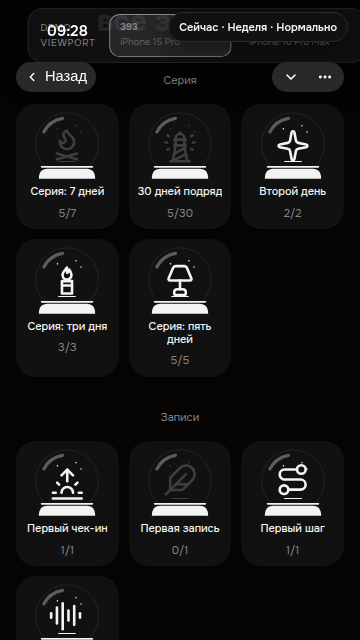
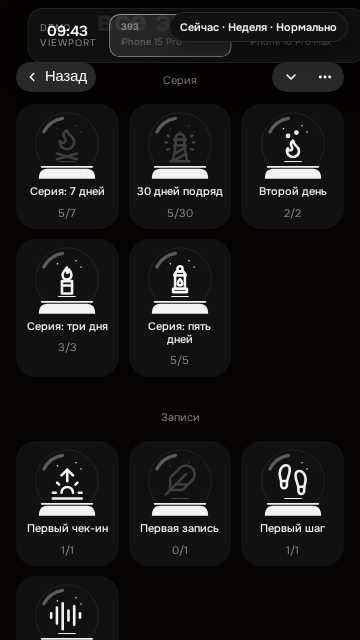
Обновить иконки значков в списке достижений

diff --git a/src/components/BadgeIcons.jsx b/src/components/BadgeIcons.jsx
@@ -1,15 +1,14 @@
 import {
   AudioLines,
+  Coffee,
   Feather,
   Flame,
   FlameKindling,
-  Lamp,
+  Footprints,
   Lighthouse,
-  Puzzle,
-  Route,
-  Sparkle,
   Sunrise,
   Tent,
+  TreePine,
 } from 'lucide-react'
 
 const ICON_STROKE = 1.8
@@ -33,6 +32,61 @@ function CandleIcon({ x, y, width, height, className }) {
     >
       <path d="M12 2.8c-1.2 1.7-3.1 3.2-3.1 5.2a3.1 3.1 0 0 0 6.2 0c0-1.2-.6-2.4-1.5-3.7-.2 1.1-.7 1.8-1.4 2.2-.1-1.4-.2-2.3-.2-3.7Z" />
       <path d="M8.5 12.2h7v8.6h-7zM8.5 15.3h7" />
+    </svg>
+  )
+}
+
+/* «Второй день» — искра: меньшая ступень огня. Тот же силуэт пламени, что у
+   «Пламени» (Flame, default), уменьшенный до 60% (ширина 8.4 против 14), и две
+   искры над ним. */
+function SparkIcon({ x, y, width, height, className }) {
+  return (
+    <svg
+      x={x}
+      y={y}
+      width={width}
+      height={height}
+      viewBox="0 0 24 24"
+      className={className}
+      fill="none"
+      stroke="currentColor"
+      strokeWidth={ICON_STROKE}
+      strokeLinecap="round"
+      strokeLinejoin="round"
+      aria-hidden="true"
+      focusable="false"
+    >
+      <path d="M9.9 16.7A1.5 1.5 0 0 0 11.4 15.2c0-.83-.3-1.2-.6-1.8-.64-1.29-.13-2.43 1.2-3.6.3 1.5 1.2 2.94 2.4 3.9 1.2.96 1.8 2.1 1.8 3.3a4.2 4.2 0 1 1-8.4 0c0-.69.26-1.38.6-1.8a1.5 1.5 0 0 0 1.5 1.5Z" />
+      <circle cx="8.6" cy="6.6" r="0.75" />
+      <circle cx="14.4" cy="4.2" r="0.75" />
+    </svg>
+  )
+}
+
+/* «Серия: пять дней» — фонарь путника: кольцо-ручка, крышка, стеклянный
+   корпус с огоньком внутри и основание. */
+function LanternIcon({ x, y, width, height, className }) {
+  return (
+    <svg
+      x={x}
+      y={y}
+      width={width}
+      height={height}
+      viewBox="0 0 24 24"
+      className={className}
+      fill="none"
+      stroke="currentColor"
+      strokeWidth={ICON_STROKE}
+      strokeLinecap="round"
+      strokeLinejoin="round"
+      aria-hidden="true"
+      focusable="false"
+    >
+      <circle cx="12" cy="4.3" r="1.8" />
+      <path d="M9.6 6.1h4.8l1.6 2.6H8z" />
+      <path d="M8.6 8.7h6.8v9.4H8.6z" />
+      <path d="M12 11.3c1 1.2 1.5 2 1.5 2.9a1.5 1.5 0 0 1-3 0c0-.9.5-1.7 1.5-2.9Z" />
+      <path d="M7.2 18.1h9.6v2.3H7.2z" />
     </svg>
   )
 }
@@ -85,20 +139,20 @@ function SummitFlagIcon({ x, y, width, height, className }) {
 }
 
 const BADGE_ICONS = {
-  'first-step': Route,
+  'first-step': Footprints,
   first_checkin: Sunrise,
   first_journal: Feather,
-  'streak-two': Sparkle,
+  'streak-two': SparkIcon,
   'streak-three': CandleIcon,
-  'streak-five': Lamp,
+  'streak-five': LanternIcon,
   streak_7: FlameKindling,
   streak_30: Lighthouse,
   'voice-heard': AudioLines,
   'week-on-path': Tent,
   'month-on-path': MoonOverMountainsIcon,
   active_days_100: SummitFlagIcon,
-  'ritual-holds': Puzzle,
-  'asceza-power': CandleIcon,
+  'ritual-holds': Coffee,
+  'asceza-power': TreePine,
   default: Flame,
 }
 

diff --git a/src/screens/SeriesBadges.jsx b/src/screens/SeriesBadges.jsx
@@ -36,12 +36,12 @@ const ART_FIT = {
   active_days_100: 'translate(50 50) scale(0.645) translate(-80 -68.5)',
   'month-on-path': 'translate(50 50) scale(0.769) translate(-86 -68)',
   'voice-heard': 'translate(50 50) scale(0.889) translate(-82.5 -68)',
-  'streak-two': 'translate(50 50) scale(1.25) translate(-80 -66)',
+  'streak-two': 'translate(50 50) scale(1.25) translate(-80 -68.6)',
   'streak-three': 'translate(50 50) scale(1.25) translate(-80 -66)',
-  'streak-five': 'translate(50 50) scale(1.026) translate(-80 -66)',
+  'streak-five': 'translate(50 50) scale(1.026) translate(-80 -66.8)',
   'week-on-path': 'translate(50 50) scale(0.635) translate(-84 -62)',
-  'ritual-holds': 'translate(50 50) scale(0.8) translate(-80 -76)',
-  'asceza-power': 'translate(50 50) scale(1.111) translate(-80 -70)',
+  'ritual-holds': 'translate(50 50) scale(0.8) translate(-81.4 -66.6)',
+  'asceza-power': 'translate(50 50) scale(1.111) translate(-80 -69)',
   default: 'translate(50 50) scale(1.25) translate(-80 -68)',
 }
 
